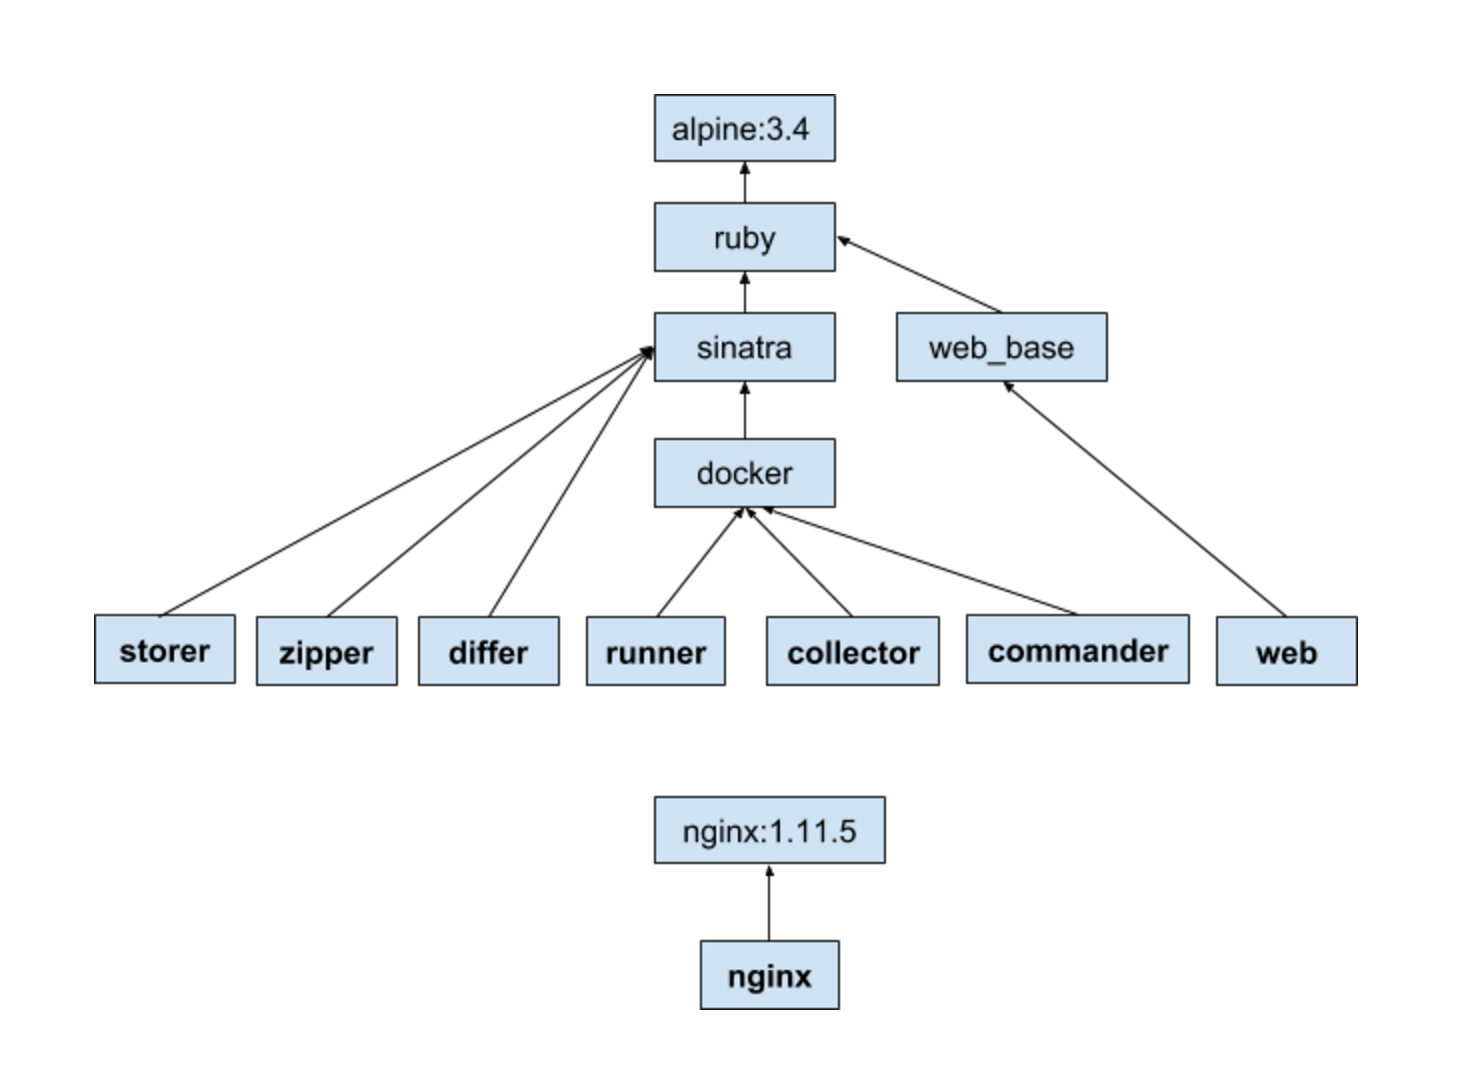
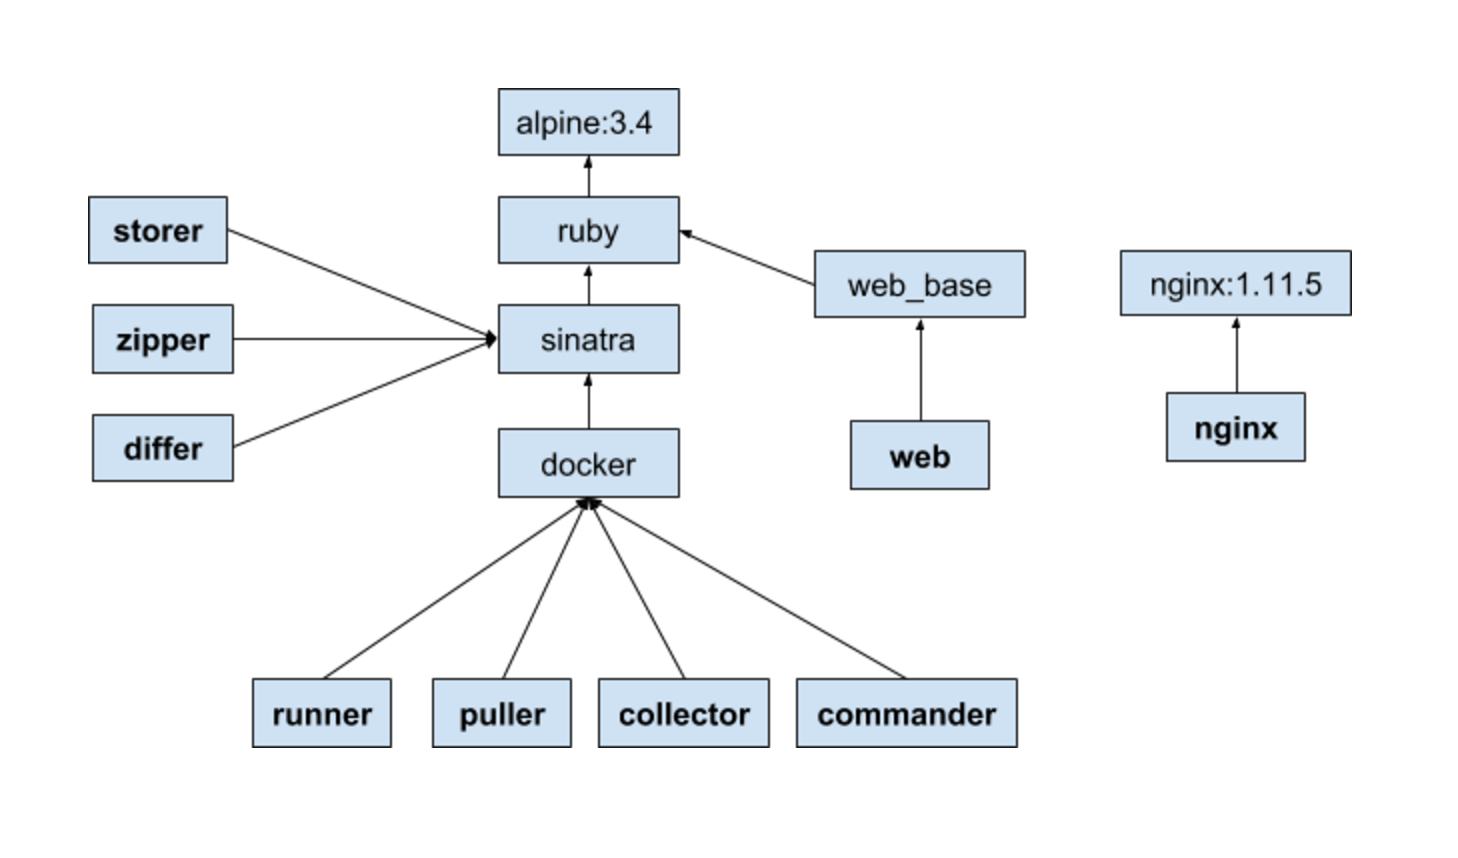
added puller to dependency-graph png

diff --git a/README.md b/README.md
@@ -13,6 +13,8 @@ Home repo for [cyber-dojo](http://cyber-dojo.org).<br/>
   * [cyber-dojo foundation](http://blog.cyber-dojo.org/2015/08/cyber-dojo-foundation.html) is a registered Scottish Charitable Incorporated Organisation
   * [learn more](http://blog.cyber-dojo.org/p/learn-more.html)
 
+- - - -
+
 Each repo in the github cyber-dojo organization builds a single docker image.
 
 These are the main service images:
@@ -34,5 +36,7 @@ These are base images:
 
 - - - -
 
-![Alt text](image_dependency_graph.png?raw=true "title")
+Image dependencies
+
+![Image Dependency Graph](image_dependency_graph.png?raw=true "image dependency graph")
 
